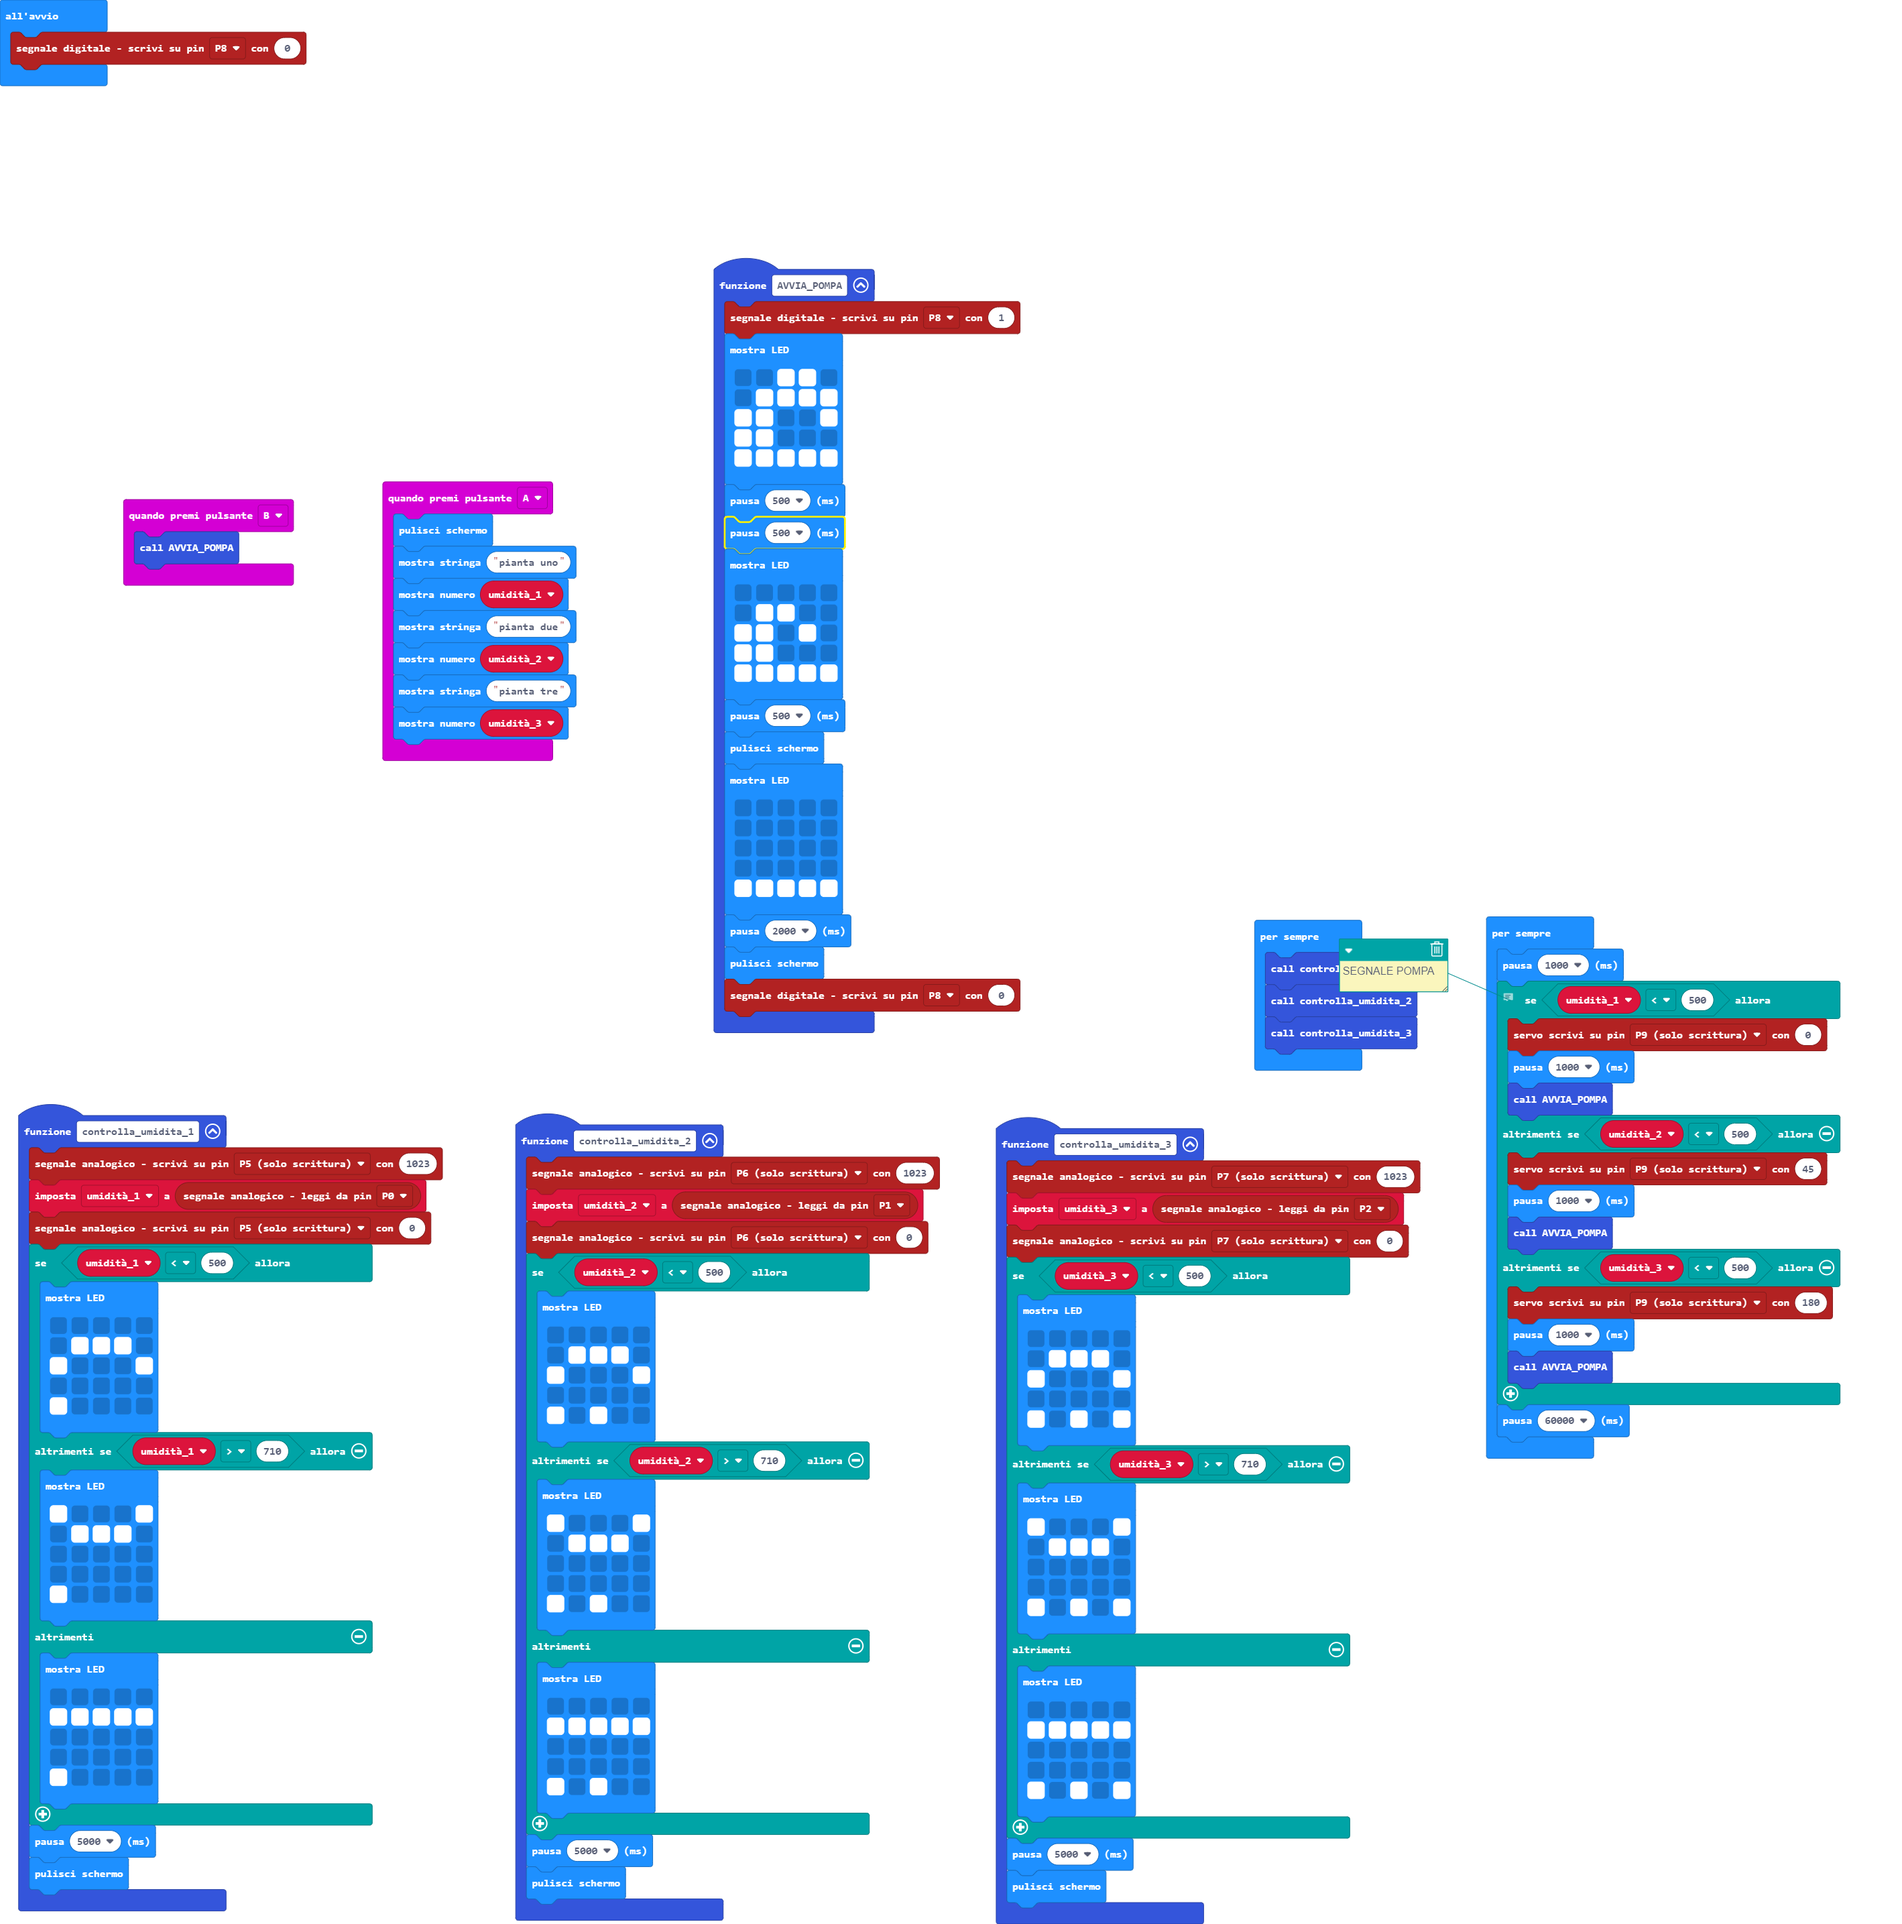
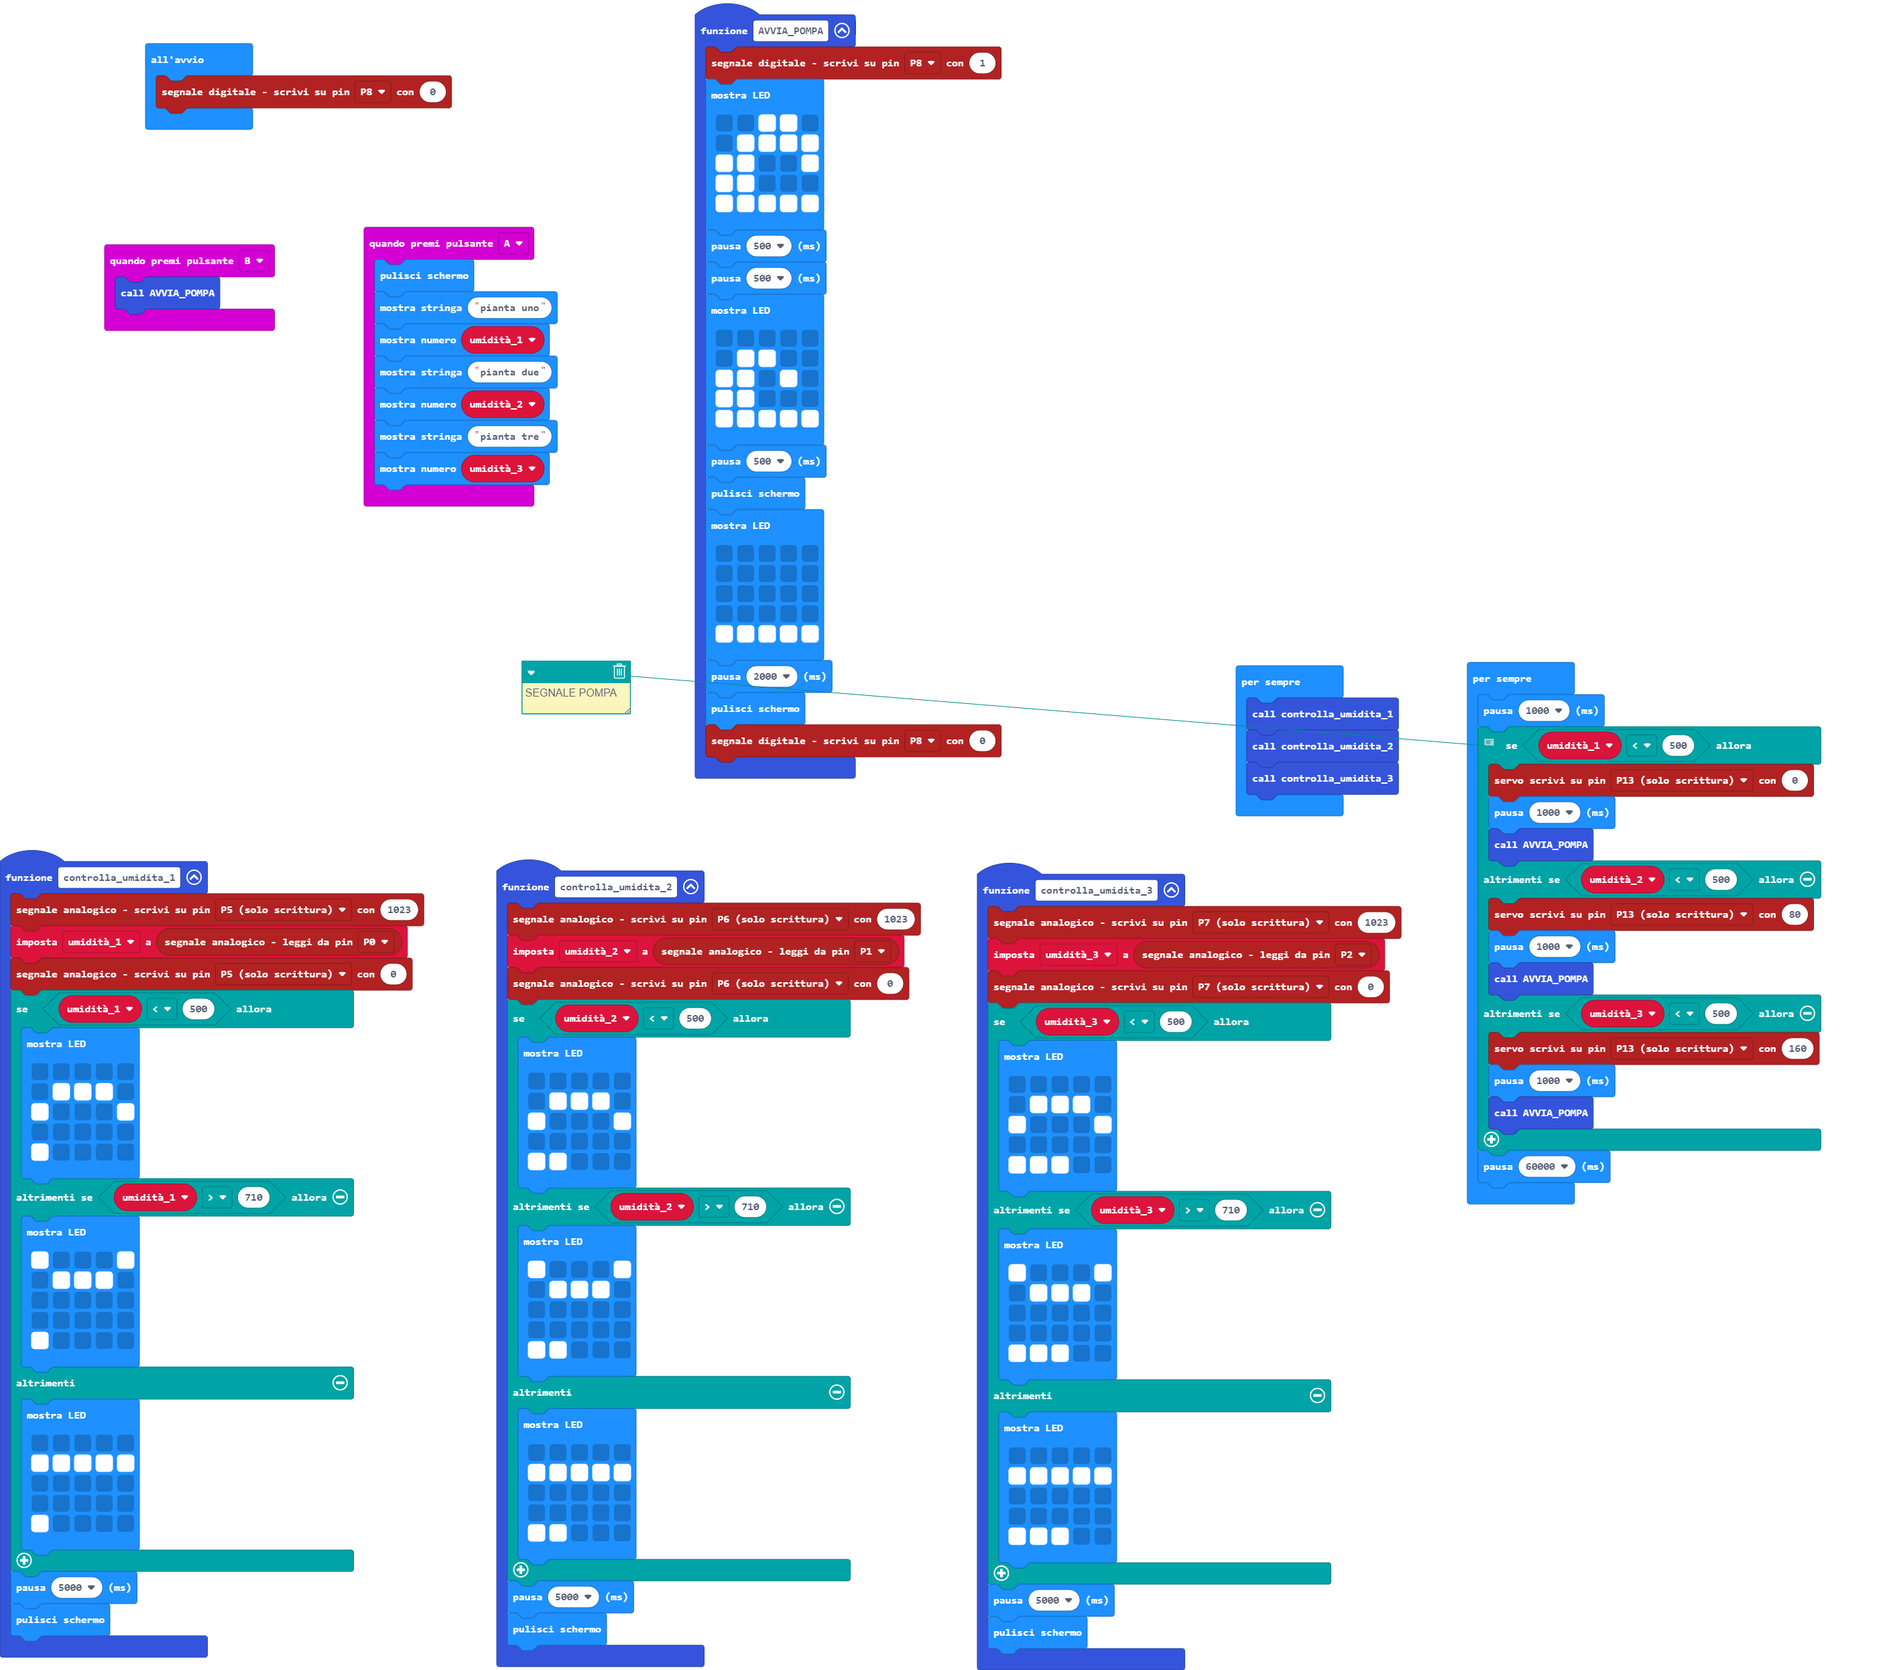
Update main.blocks, main.ts

diff --git a/main.ts b/main.ts
@@ -8,7 +8,7 @@ function controlla_umidita_3 () {
             . # # # .
             # . . . #
             . . . . .
-            # . # . #
+            # # # . .
             `)
     } else if (umidità_3 > 710) {
         basic.showLeds(`
@@ -16,7 +16,7 @@ function controlla_umidita_3 () {
             . # # # .
             . . . . .
             . . . . .
-            # . # . #
+            # # # . .
             `)
     } else {
         basic.showLeds(`
@@ -24,7 +24,7 @@ function controlla_umidita_3 () {
             # # # # #
             . . . . .
             . . . . .
-            # . # . #
+            # # # . .
             `)
     }
     basic.pause(5000)
@@ -72,7 +72,7 @@ function controlla_umidita_2 () {
             . # # # .
             # . . . #
             . . . . .
-            # . # . .
+            # # . . .
             `)
     } else if (umidità_2 > 710) {
         basic.showLeds(`
@@ -80,7 +80,7 @@ function controlla_umidita_2 () {
             . # # # .
             . . . . .
             . . . . .
-            # . # . .
+            # # . . .
             `)
     } else {
         basic.showLeds(`
@@ -88,7 +88,7 @@ function controlla_umidita_2 () {
             # # # # #
             . . . . .
             . . . . .
-            # . # . .
+            # # . . .
             `)
     }
     basic.pause(5000)
@@ -150,15 +150,15 @@ basic.forever(function () {
     basic.pause(1000)
     // SEGNALE POMPA
     if (umidità_1 < 500) {
-        pins.servoWritePin(AnalogPin.P9, 0)
+        pins.servoWritePin(AnalogPin.P13, 0)
         basic.pause(1000)
         AVVIA_POMPA()
     } else if (umidità_2 < 500) {
-        pins.servoWritePin(AnalogPin.P9, 45)
+        pins.servoWritePin(AnalogPin.P13, 80)
         basic.pause(1000)
         AVVIA_POMPA()
     } else if (umidità_3 < 500) {
-        pins.servoWritePin(AnalogPin.P9, 180)
+        pins.servoWritePin(AnalogPin.P13, 160)
         basic.pause(1000)
         AVVIA_POMPA()
     }
